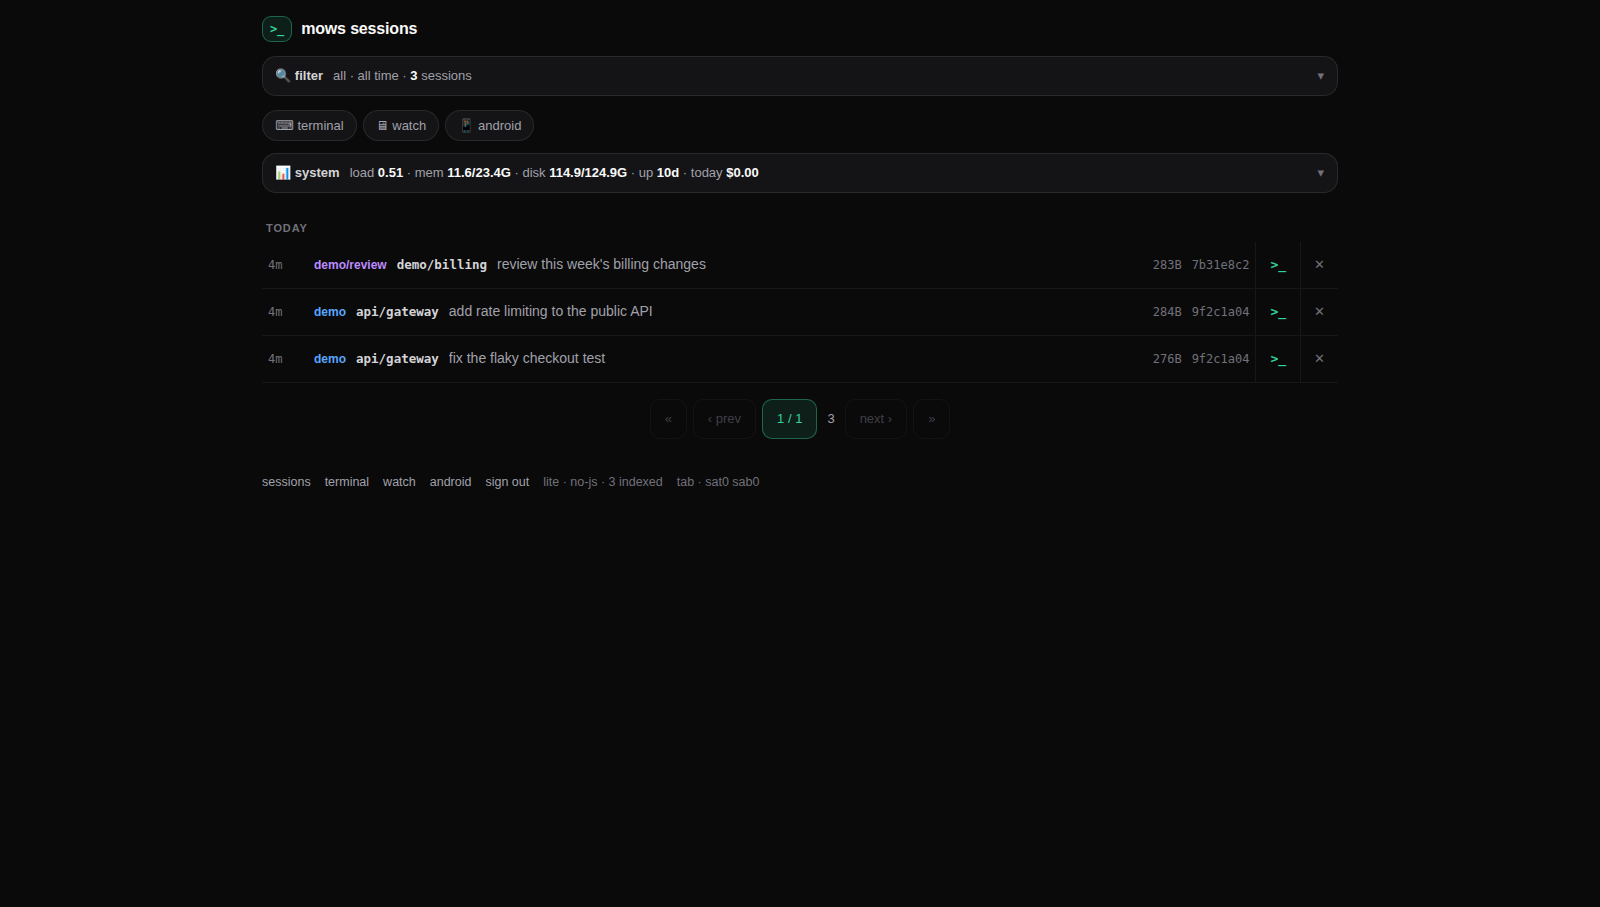
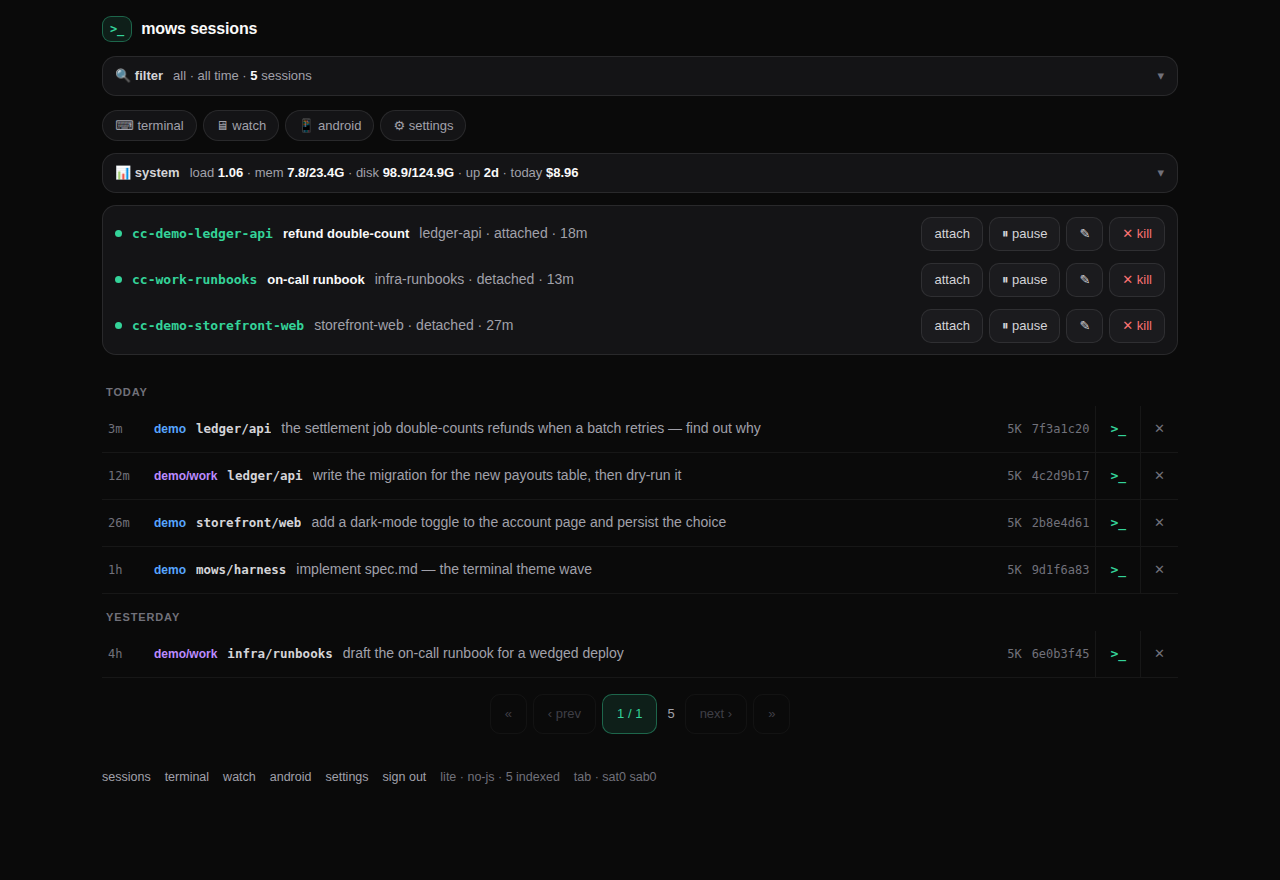
docs: cover worktrees and terminal themes, refresh every screenshot
The last two feature waves (per-session git worktrees, then switchable
terminal themes with a dashboard-wide setting) never reached the guides, and
the README's screenshots predated both — its phone shot still showed a
four-tab bar with no settings tab.

Docs:
- README: worktrees in the fleet layer and its verify step, themes + the
  /settings page in the infra layer, themes.json in the Part 3 install steps,
  ccname/ccswap/ccwt in the layer table.
- infra/SETUP.md: a "Terminal color themes" section — the three ways to pick
  one and their precedence, where the canonical color map lives, where the
  global choice is persisted, and why no dashboard route may start with /term.
- docs/architecture.md: the fleet binary list and the dashboard's /settings.

Screenshots — all regenerated, none taken from a live box:
- docs/assets/stage-demo.sh brings up a throwaway dashboard + ttyd against a
  synthetic home tree with shimmed runuser/tmux/ccusage/claude-quota, so every
  account, project, session, prompt and dollar figure on screen is invented.
- docs/assets/demo-session.sh is the fake Claude Code session behind it,
  ANSI-colored across the whole palette so a theme change actually shows.
- new: settings.png (global theme + live preview), term-phone.png (key bar
  with the theme picker), theme-cycle.gif (the terminal through seven schemes).

Claude-Session: https://claude.ai/code/session_018pauro2YVqigTVgGrvS4K5

diff --git a/README.md b/README.md
@@ -6,7 +6,7 @@ Your coding agent lives on a box you control: it survives dropped SSH and closed
 restarts itself when it wedges, and waits behind your Google login on a dashboard and web
 terminal you can open from anywhere.
 
-<img src="docs/assets/phone.png" alt="The mows-harness dashboard on a phone: three Claude Code sessions across two profiles, each showing the prompt that started it, with collapsible filter and system strips and sessions / terminal / watch / android tabs along the bottom." width="300" align="right">
+<img src="docs/assets/phone.png" alt="The mows-harness dashboard on a phone: three live Claude Code sessions across two profiles, each with the prompt that started it, collapsible filter and system strips, and sessions / terminal / watch / android / settings tabs along the bottom." width="300" align="right">
 
 ```bash
 git clone https://github.com/alhe99/mows-harness.git
@@ -21,8 +21,10 @@ you leave running, `--all` for the full web cockpit.
 - **claude** — `CLAUDE.md`, 9 commands, 13 skills, an agent, settings + MCP templates
 - **watchdogs** — 7 cron jobs that restart a wedged agent, reap idle sessions and orphaned
   MCP processes, monitor OS patch health, and auto-continue past usage-limit stalls
-- **infra** — Caddy + Google OAuth, a session dashboard, a browser terminal (the phone view)
-- **fleet** — several Claude identities on one box, switched with one command
+- **infra** — Caddy + Google OAuth, a session dashboard with a settings page, a themeable
+  browser terminal (the phone view)
+- **fleet** — several Claude identities on one box, switched with one command; per-session
+  git worktrees so parallel sessions never fight over one checkout
 - **agy** — antigravity delegation: `ag` launcher, `agy-run`, `agy-handoff`/`agy-gate`,
   `claude-quota`, `agy-notify` → `~/.local/bin`
 
@@ -30,9 +32,37 @@ you leave running, `--all` for the full web cockpit.
 
 ### What it looks like
 
+**The dashboard** — every session on the box, live or finished, across every profile, with the
+prompt that started it. Attach, pause, kill, or resume any of them in one tap.
+
+<img src="docs/assets/dashboard.png" alt="The dashboard in a desktop browser: a filter strip, a system strip with load, memory, disk and today's spend, three live tmux-backed sessions with attach / pause / rename / kill buttons, and below them every recent session grouped by day with its account, project and opening prompt." width="820">
+
+**The web terminal** — a real Claude Code session in a browser tab, in whichever of the 12
+built-in color schemes you picked. Themes are converted from
+[iTerm2-Color-Schemes](https://github.com/mbadolato/iTerm2-Color-Schemes) and switch live, with
+no reconnect.
+
+<img src="docs/assets/theme-cycle.gif" alt="The /term web terminal showing a Claude Code session, cycling through the Material Ocean, TokyoNight, Catppuccin Mocha, Nord, Rose Pine, GitHub Light and Material Darker color schemes." width="820">
+
+<img src="docs/assets/term-phone.png" alt="The same web terminal on a phone, in the Nord scheme, with the on-screen key bar along the bottom scrolled to its right end: detach, keyboard toggle, font-size keys, and the theme picker set to Nord." width="210" align="right">
+
+**Pick one for every device from the dashboard** — `/settings` sets the global theme and shows
+a live preview of the palette before you save it. On a phone, the key bar's own picker
+overrides the global choice for that browser; open terminal tabs follow a global change within
+about 30 seconds.
+
+<img src="docs/assets/settings.png" alt="The dashboard settings page: a global terminal theme dropdown set to Material Ocean with a Save button, and a live preview card rendering a shell prompt plus the theme's sixteen ANSI colors as swatches." width="560">
+
+<br clear="right">
+
+**The fleet CLI** — several Claude Code identities on one box, each with its own config dir,
+switched with one command.
+
 <img src="docs/assets/fleet.gif" alt="Terminal recording: claude-rc status lists three profiles with their systemd units active, a dry-run switches the whole fleet to one profile, and cc --help shows the session launcher." width="820">
 
-<img src="docs/assets/dashboard.png" alt="The dashboard in a desktop browser, listing Claude Code sessions across profiles with per-session size, id, and a button to attach a terminal." width="820">
+<sub>Every screenshot above is taken against a synthetic demo — fake accounts, fake projects,
+fake sessions, fake spend — brought up by <a href="docs/assets/stage-demo.sh"><code>docs/assets/stage-demo.sh</code></a>,
+never against a live box.</sub>
 
 > **Before you install anything on a server:** the infra layer puts a web terminal on the
 > public internet behind Google sign-in. Read [Security defaults](#security-defaults) first —
@@ -64,7 +94,7 @@ running anything.
 | **claude** | `--claude` | `CLAUDE.md`, rules, 9 commands, 13 skills, 1 agent, `settings.json`, `mcp-interactive.json` → `~/.claude/` | Yes — prior files backed up to `~/.claude.bak-<ts>/` |
 | **watchdogs** | `--watchdogs` | 7 scripts → `~/.local/bin/` (+ `~/bin/` for the limit shield). Cron block is **printed, never installed** | Yes |
 | **infra** | `--infra` | Renders VPS templates into `./rendered/` **only**. Installs nothing, enables nothing, starts nothing | Yes — nothing leaves the repo dir |
-| **fleet** | `--fleet` | `cc`, `claude-rc`, `claude-status`, `reset-claude-env` → `~/.local/bin/` | Yes |
+| **fleet** | `--fleet` | `cc`, `ccname`, `ccswap`, `ccwt`, `claude-rc`, `claude-status`, `reset-claude-env` → `~/.local/bin/` | Yes |
 | **agy** | `--agy` | `ag`, `agy-run`, `agy-handoff`, `agy-gate`, `claude-quota`, `agy-notify` → `~/.local/bin`; config seeded at `~/.config/mows-agy/config` | No — config never clobbered |
 
 All five are idempotent and independent. Re-running with a different flag set is safe.
@@ -202,6 +232,7 @@ ls ~/.local/bin/claude-health ~/.local/bin/claude-mem-health ~/.local/bin/patch-
 # --fleet
 cc --help 2>&1 | head -1               # or: ~/.local/bin/cc --help
 claude-rc help | head -1
+ccwt list 2>&1 | head -1               # per-session worktrees (cc -w creates them)
 
 # --infra
 ls rendered/                           # staged templates; nothing installed yet
@@ -257,8 +288,10 @@ commands: [`infra/SETUP.md`](infra/SETUP.md)):
    returns 404: ttyd's ~700KB generated index is deliberately not vendored here, so the
    script fetches it locally and splices in the clipboard shim plus the
    `infra/webconsole/blocks/` mobile UX (key bar, PWA geometry, home key, photo attach,
-   keyboard suggestions + reconnect, copy/paste overlay, restart-pane key). Re-run it
-   after a repo update to pick up new or changed blocks.
+   font size, color themes, keyboard suggestions + reconnect, copy/paste overlay,
+   restart-pane key). Re-run it after a repo update to pick up new or changed blocks.
+   If you want the dashboard's `/settings` page to drive the terminal theme globally, also
+   `sudo install -D -m644 infra/webconsole/themes.json /opt/claude-dashboard/themes.json`.
 8. **Verify** — `curl -sI https://<domain>` should redirect toward Google sign-in.
 
 Optional, on demand: the browser-QA watch stack (`infra/qa-watch/SETUP.md`) needs
@@ -332,11 +365,16 @@ flowchart TB
   alive and clean: unit/wedge recovery, memory-capture verification, idle-session reaping,
   orphaned-MCP reaping, usage-limit auto-continue, OS patch-health monitoring, boot logging.
 - **`infra/`** — templates for the public surface: Caddy (TLS + reverse proxy), oauth2-proxy
-  (Google-gated auth), a zero-dependency session dashboard, a `ttyd` web terminal, an
+  (Google-gated auth), a zero-dependency session dashboard (session list, system/spend panel,
+  and a `/settings` page), a `ttyd` web terminal with 12 switchable color themes, an
   on-demand browser-QA watch stack, firewall templates, and scoped sudoers.
 - **`fleet/`** — several Claude identities on one box: named *profiles* under one account
   (`cc`, `claude-rc`, `claude-status`, `reset-claude-env`), or separate Linux-user *agent*
-  accounts (`add-agent.sh`).
+  accounts (`add-agent.sh`). Per-session helpers ride along: `ccname` labels the session
+  you're in (the label shows up in the dashboard and in Discord pings), `ccswap` continues a
+  quota-blocked session on the other account, and `ccwt` manages the per-session git
+  worktrees that `cc -w <name>` creates — one branch per session, so two agents in one repo
+  never overwrite each other, merged back with `ccwt done`.
 - **`agy/`** — Antigravity (agy) delegation: the `ag` tmux launcher, `agy-run` sync wrapper,
   `agy-handoff`/`agy-gate` worktree handoffs with a verify→review→auto-merge policy, and
   `claude-quota`, the per-account usage signal behind the 70% delegation rule. See

diff --git a/infra/SETUP.md b/infra/SETUP.md
@@ -209,10 +209,10 @@ Caddy serves `/term` and `/term/` itself, from a static file — `ttyd`'s own `G
 never what a browser sees (see `infra/webconsole/claude-web-term.service.template`'s "Serving
 model" note). The generated page is ttyd's own bundle plus every self-authored addition
 spliced in: the clipboard shim and the `infra/webconsole/blocks/` mobile UX (key bar, PWA
-geometry, home key, photo attach, keyboard suggestions + reconnect, copy/paste overlay,
-restart-pane key, repaint-on-foreground — each block documents itself; runtime kill
-switches: `/term/?ime=off`, `?clip=off`, `?rst=off`, `?paint=off`). That file does not
-exist until you generate it:
+geometry, home key, photo attach, font size, **color themes**, keyboard suggestions +
+reconnect, copy/paste overlay, restart-pane key, repaint-on-foreground — each block
+documents itself; runtime kill switches: `/term/?ime=off`, `?clip=off`, `?rst=off`,
+`?paint=off`, `?theme=off`). That file does not exist until you generate it:
 
 ```bash
 infra/webconsole/make-term-index.sh
@@ -240,6 +240,41 @@ steps and `/term` 404s for every visitor, indefinitely — it is not created by 
 `systemctl enable` steps above.
 
 Note: `/term`'s "new session" launcher flow relies on `fleet/bin/cc` (installed via `./install.sh --fleet`).
+
+#### Terminal color themes
+
+`blocks/46-cctheme.html` ships 12 xterm color schemes (Material family, Nord, Catppuccin
+Mocha, TokyoNight, Rosé Pine, GitHub Dark/Light) converted from
+[mbadolato/iTerm2-Color-Schemes](https://github.com/mbadolato/iTerm2-Color-Schemes) (MIT).
+Three ways to pick one, in precedence order:
+
+| Where | How | Scope |
+|---|---|---|
+| the `/term` key bar | the theme dropdown (mobile; the bar is hidden on desktop) | that browser, persisted in `localStorage` |
+| `/term` URL or console | `/term/?theme=Nord`, `?theme=default` to clear, or `cctheme("Nord")` | same — writes the same `localStorage` key |
+| the dashboard | `/settings` → **Global theme** → Save | every terminal tab on every device, picked up by open tabs within ~30 s |
+
+A device-local pick always wins over the global one; "Auto (global)" in the key bar clears
+it and follows the dashboard again. With nothing set anywhere, `ttyd`'s stock palette
+applies. The canonical color map lives in `infra/webconsole/themes.json` (read by the
+dashboard) and is mirrored inline in the block (the terminal page must theme itself before
+any fetch resolves) — **keep the two in sync when adding a scheme.**
+
+The dashboard persists the global choice to `/opt/claude-dashboard/settings.json`
+(`--settings-file` overrides the path; created on first Save, `{"termTheme":"<name>"}`) and
+serves it back at `GET /settings/term-theme.json`. Install `themes.json` next to `lite.mjs`
+so the `/settings` preview and the validation of `POST /settings/term-theme` see the same
+map:
+
+```bash
+sudo install -D -m644 infra/webconsole/themes.json /opt/claude-dashboard/themes.json
+sudo systemctl restart claude-dash-lite
+```
+
+> **Never name a dashboard route `/term…`.** Caddy's `handle /term*` is a *prefix* matcher:
+> it swallows every path starting with `/term`, so an endpoint called `/term-theme` reaches
+> `ttyd` and 404s instead of reaching the dashboard. That is why these live under
+> `/settings/*`. The trap is commented in `infra/caddy/Caddyfile.template` too.
 
 ### 11. QA watch-stack (optional — ships disabled)
 

diff --git a/docs/architecture.md b/docs/architecture.md
@@ -12,7 +12,7 @@ watchdog rationale, and the operational caveats worth knowing before you rely on
 | 1. claude | `--claude` | `claude/{CLAUDE.md → global/,rules,agents,commands,skills}`, `claude/settings.template.json`, `claude/mcp.template.json` | The agentic config itself, copied into `~/.claude`; also loadable as a standalone plugin (`.claude-plugin/marketplace.json`, `claude/.claude-plugin/plugin.json`) |
 | 2. watchdogs | `--watchdogs` | `watchdogs/bin/*`, `watchdogs/crontab.example`, `watchdogs/logrotate.d/` | Seven cron scripts supervising the host and remote-control fleet |
 | 3. infra | `--infra` | `infra/{caddy,oauth2-proxy,dashboard,webconsole,qa-watch,droid,systemd,os}/` | Templates for the public web surface — staged into `./rendered/` for review, never installed/enabled/started by `install.sh` itself |
-| 4. fleet | `--fleet` | `fleet/bin/{cc,claude-rc,claude-status,reset-claude-env}`, `fleet/add-agent.sh` | Multi-identity tooling: the profile model (one admin account, N config dirs) and the agent model (N Linux-user accounts) |
+| 4. fleet | `--fleet` | `fleet/bin/{cc,ccname,ccswap,ccwt,claude-rc,claude-status,reset-claude-env}`, `fleet/add-agent.sh` | Multi-identity tooling: the profile model (one admin account, N config dirs) and the agent model (N Linux-user accounts), plus per-session helpers — `ccname` (label a session), `ccswap` (continue a quota-blocked session on the other account), `ccwt` (per-session git worktrees, created by `cc -w`) |
 | 5. agy | `--agy` | `agy/bin/{ag,agy-run,agy-handoff,agy-gate,claude-quota,agy-notify}`, `agy/config.example` | Antigravity (agy) delegation bridge: synchronous (`agy-run`) and fire-and-forget worktree handoffs (`agy-handoff`/`agy-gate`) with re-run verification, review escalation, and auto-merge policy; `claude-quota` is the 70% delegation-trigger signal |
 
 ## Port map
@@ -20,7 +20,7 @@ watchdog rationale, and the operational caveats worth knowing before you rely on
 | Port | Bound to | Service | Notes |
 |---|---|---|---|
 | 443 | public | Caddy | TLS termination + reverse proxy — the only thing this box exposes to the Internet and the only thing that terminates TLS |
-| 3005 | 127.0.0.1 | dashboard (`infra/dashboard/lite.mjs`) | Reached only via Caddy; PWA-installable session list, `/term` companion, QA-watch view |
+| 3005 | 127.0.0.1 | dashboard (`infra/dashboard/lite.mjs`) | Reached only via Caddy; PWA-installable session list, `/term` companion, QA-watch view, and `/settings` (global terminal theme, persisted to `/opt/claude-dashboard/settings.json`) |
 | 7681 | 127.0.0.1 | `ttyd` (`/term`) | Only `/term/ws` and `/term/token` reach `ttyd` through Caddy's `reverse_proxy`; plain `GET /term` and `/term/` are intercepted earlier and served by Caddy's own `file_server` from `term-index.html` (see `infra/webconsole/make-term-index.sh`) |
 | 4180 | 127.0.0.1 | oauth2-proxy | Caddy's `forward_auth` target for every protected route, plus a `reverse_proxy` for `/oauth2/*` |
 | 2019 | 127.0.0.1, loopback-only | Caddy's admin API | Never configured by `infra/caddy/Caddyfile.template` at all — Caddy's own factory default is to bind its admin endpoint to `localhost:2019` and refuse non-loopback access; nothing in this repo changes that default, so it stays loopback-only for free |
